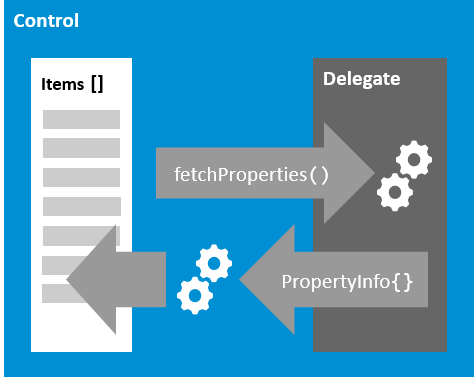
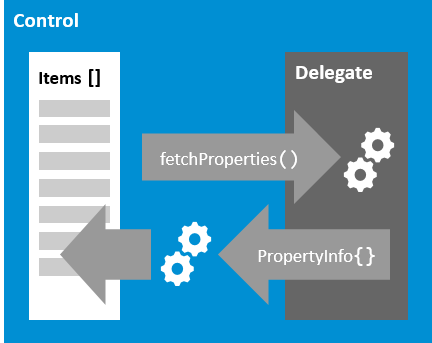
OpenUI5 Documentation Update 17.09.2023

diff --git a/docs/Step_28_Integration_Test_with_OPA_9bf4dce.md b/docs/Step_28_Integration_Test_with_OPA_9bf4dce.md
@@ -25,7 +25,7 @@ We haven’t thought about testing our interaction with the app yet, so in this 
   
 **An OPA test opens the "Hello" dialog from step 16**
 
-![](images/loio108eccbd79ad4cc1b4091be62be59991_HiRes.png "An OPA test opens the "Hello" dialog from step 16")
+![](images/loio250d5b92921d44a4b432cc0fade88cc9_LowRes.png "An OPA test opens the "Hello" dialog from step 16")
 
 ***
 

diff --git a/docs/Step_27_Unit_Test_with_QUnit_e1ce1de.md b/docs/Step_27_Unit_Test_with_QUnit_e1ce1de.md
@@ -25,7 +25,7 @@ Actually, every feature that we added to the app so far, would require a separat
   
 **A unit test for our formatters is now available**
 
-![](images/loioa933bc8e1b8c45a88252f1aecff7ba36_HiRes.png "A unit test for our formatters is now available")
+![](images/loio0d29491d96574cfe8d8158d60a0a32e2_LowRes.png "A unit test for our formatters is now available")
 
 ***
 
